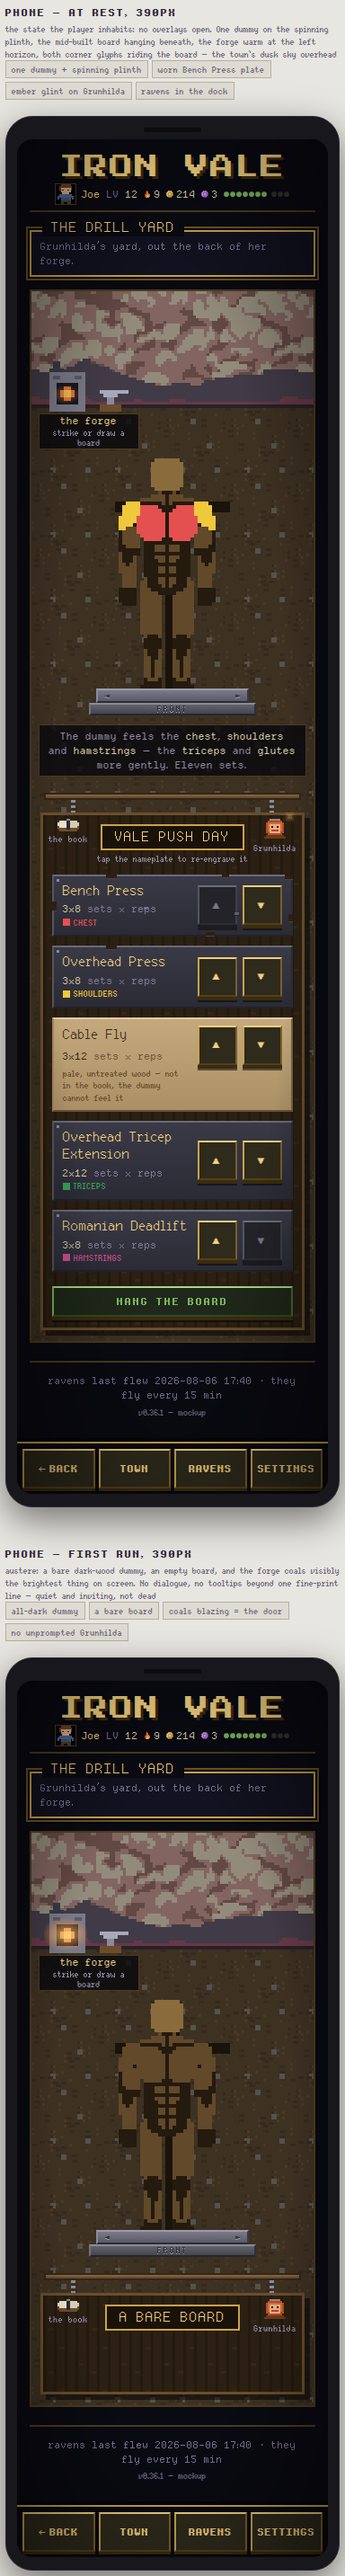
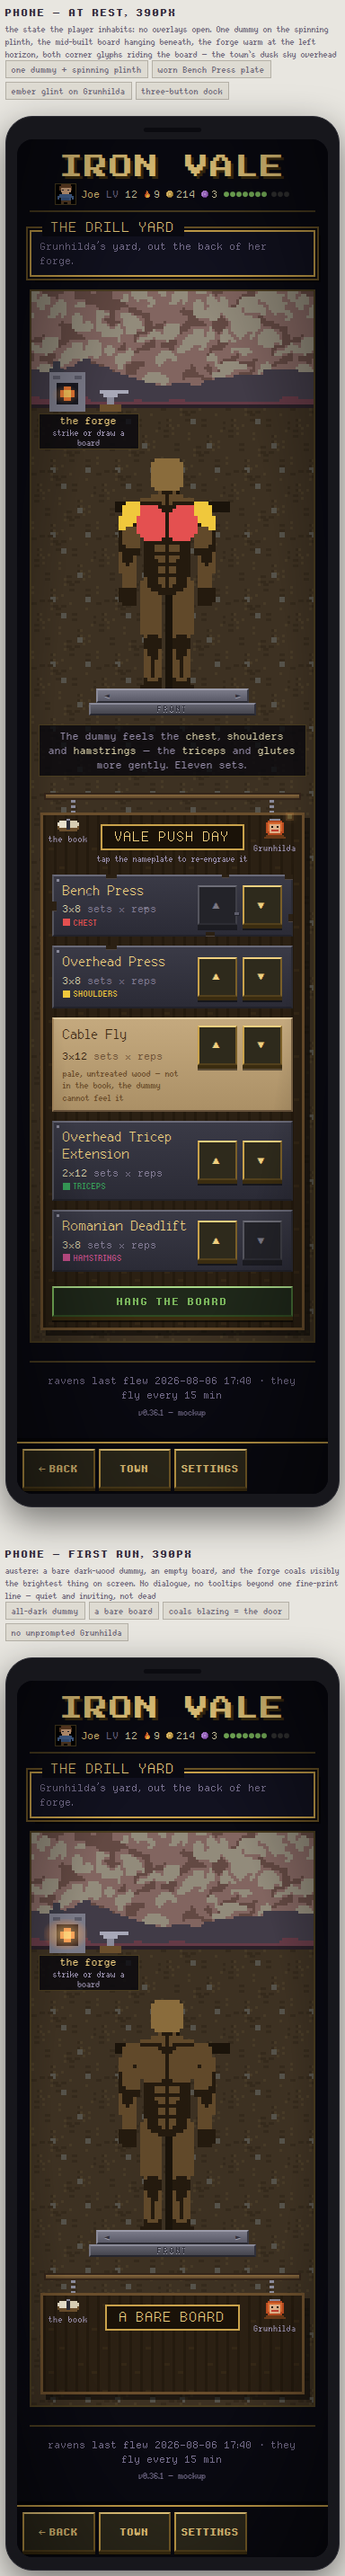
Drop ravens from the mockup dock
ravens become ambient notification birds per the bazaar-thread direction; dock stays Back/Town/Settings.

Changed region(s): [[0.7188, 0.9627, 0.9375, 0.9937], [0.7188, 0.559, 0.9375, 0.59]]

diff --git a/docs/mockups/routine-builder-scene.html b/docs/mockups/routine-builder-scene.html
@@ -329,7 +329,7 @@ body { margin:0; background:var(--wall); color:var(--note); font-family:'quanta-
   <span><b>SEAM 6</b> — Grunhilda speaks only when tapped; her ember glint = a week reading waits</span>
 </div>
 <div class="vnote"><b>V3 vs V2 — centered and floating.</b> per Joe's third note: the dummies stand centered, every secondary panel FLOATS over the scene — elevated, shadowed, reflowing nothing — and the forge earned its job as the routines entry point. The barrel and stones left the yard so the board could widen and move central.</div>
-<div class="vnote"><b>THIS ROUND — the yard at rest, and bare.</b> per Joe's decisions of 2026-08-06: the yard inherits the town's time-of-day clock and sky tilesets (drawn at dusk — one village, one sky); the first run is austere (dark dummy, bare board, the coals the brightest thing, no unprompted Grunhilda line); phone gets ONE dummy on a spinning plinth with two guards so the spin never gates information (the caption counts the whole body; a movement lighting the hidden side auto-turns the dummy), while desktop keeps the pair; plates take capped wear from logged sessions; the vocabulary is codified — the forge births (strike/draw), the board hangs, the plates wear, the dummy only mirrors, and weeks are never forged, hung, or struck. Critique fixes landed throughout: ravens join the dock, the caption is generated from the same counts that light the dummy, spec voice left the frames for the margins, tooltip census enforced, --dim-readable on wood, honest 44px-class reorder latches and corner-glyph hit regions, and the rack keeps the neutral-bevel-no-dim grammar of a coexisting floater.</div>
+<div class="vnote"><b>THIS ROUND — the yard at rest, and bare.</b> per Joe's decisions of 2026-08-06: the yard inherits the town's time-of-day clock and sky tilesets (drawn at dusk — one village, one sky); the first run is austere (dark dummy, bare board, the coals the brightest thing, no unprompted Grunhilda line); phone gets ONE dummy on a spinning plinth with two guards so the spin never gates information (the caption counts the whole body; a movement lighting the hidden side auto-turns the dummy), while desktop keeps the pair; plates take capped wear from logged sessions; the vocabulary is codified — the forge births (strike/draw), the board hangs, the plates wear, the dummy only mirrors, and weeks are never forged, hung, or struck. Critique fixes landed throughout: the caption is generated from the same counts that light the dummy, spec voice left the frames for the margins, tooltip census enforced, --dim-readable on wood, honest 44px-class reorder latches and corner-glyph hit regions, and the rack keeps the neutral-bevel-no-dim grammar of a coexisting floater.</div>
 
 <div class="frames">
 
@@ -338,7 +338,7 @@ body { margin:0; background:var(--wall); color:var(--note); font-family:'quanta-
       <div class="st-title">Phone — at rest, 390px</div>
       <div class="st-sub">the state the player inhabits: no overlays open. One dummy on the spinning plinth, the mid-built board hanging beneath, the forge warm at the left horizon, both corner glyphs riding the board &mdash; the town&rsquo;s dusk sky overhead</div>
       <div class="tag-chips">
-        <span>one dummy + spinning plinth</span><span>worn Bench Press plate</span><span>ember glint on Grunhilda</span><span>ravens in the dock</span>
+        <span>one dummy + spinning plinth</span><span>worn Bench Press plate</span><span>ember glint on Grunhilda</span><span>three-button dock</span>
       </div>
     </div>
     <div class="phone-bezel">
@@ -870,10 +870,9 @@ function footerHtml() {
   </div>`;
 }
 function dockHtml(withTag) {
-  return `<nav class="phone-dock" ${withTag ? `data-tag="COMPACT DOCK|Back / Town / Ravens / Settings, in that order, 44px each — DESIGN.md&rsquo;s required contract, drawn in full so nobody builds a three-slot dock from the picture"` : ''}>
+  return `<nav class="phone-dock" ${withTag ? `data-tag="COMPACT DOCK|dock: no ravens button — ravens are becoming ambient notification birds (bazaar thread); DESIGN.md&rsquo;s dock contract to be updated when that lands."` : ''}>
     <button class="dock-action">&larr;<span>BACK</span></button>
     <button class="dock-action"><span>TOWN</span></button>
-    <button class="dock-action"><span>RAVENS</span></button>
     <button class="dock-action"><span>SETTINGS</span></button>
   </nav>`;
 }
